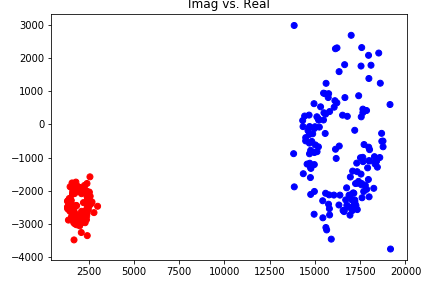
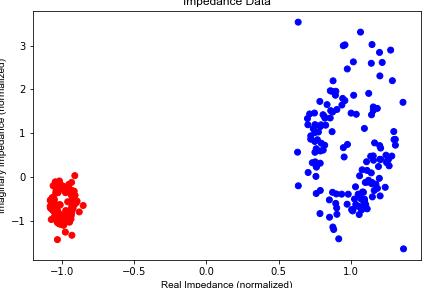
Modified graph axez

diff --git a/svm_plotter.py b/svm_plotter.py
@@ -21,7 +21,9 @@ class Plotter():
         ax.scatter(X[var1], X[var2], c=y['Blood?'].apply(lambda x: colors[x]))
 #        ax.set_yscale('log')
         plt.tight_layout()
-        plt.title("Imag vs. Real")
+        plt.title("Impedance Data", fontname="Arial",)
+        plt.xlabel("Real Impedance (normalized)", fontname="Arial",)
+        plt.ylabel("Imaginary Impedance (normalized)", fontname="Arial",)
         plt.savefig('data.png')
         plt.show()
 
@@ -59,7 +61,9 @@ class Plotter():
             plt.scatter(X_test[:, 0],X_test[:, 1],c='',alpha=1.0,linewidths=1,
                         marker='o',s=55, label='test set')
             
-        plt.title("SVM Decision Boundary")
+        plt.title("SVM Decision Boundary", fontname="Arial",)
+        plt.xlabel("Real Impedance (normalized)", fontname="Arial",)
+        plt.ylabel("Imaginary Impedance (normalized)", fontname="Arial",)
 #        ax.set_yscale('log')
         plt.tight_layout()
         plt.savefig('svm.png')

diff --git a/main.py b/main.py
@@ -9,6 +9,7 @@ from sklearn.model_selection import train_test_split
 from sklearn import metrics
 from svm_plotter import Plotter
 from data_generator import MakeData
+from sklearn.preprocessing import StandardScaler
 
 if __name__ == "__main__":
 
@@ -18,8 +19,11 @@ if __name__ == "__main__":
     #   X, y = MakeData.make_data(n_samples=200, noise = 0.3, random_state=None)
 
     #Import actual data from csv
-    X = pandas.read_csv("X_animal_blood_fat.csv", delimiter=',')
-    y = pandas.read_csv("y_animal_blood_fat.csv", delimiter=',')
+    X = pandas.read_csv("Data\X_animal_blood_fat.csv", delimiter=',')
+    y = pandas.read_csv("Data\y_animal_blood_fat.csv", delimiter=',')
+
+    scaler = StandardScaler() 
+    X[['Real', 'Imag']] = scaler.fit_transform(X[['Real', 'Imag']])
 
     Plotter.plot_points(X, y, var1='Real', var2='Imag')
     
